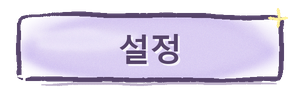
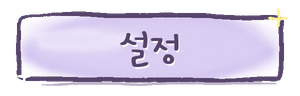
파스텔 타이틀 다듬기: 부제목 빼고 한 줄 감자꽃 손글씨 로고, 모래시계 윗칸은 검정 잉크, 버튼 글씨도 감자꽃체

Changed region(s): [[0.39, 0.3125, 0.6, 0.7188]]

diff --git a/tools/gen_title_pastel.py b/tools/gen_title_pastel.py
@@ -1,22 +1,24 @@
-"""'파스텔' 그림체(처음 만든 파스텔 수채화 타이틀)에 나중에 생긴 부품만 같은 그림체로 그린다.
+"""'파스텔' 그림체(처음 만든 파스텔 수채화 타이틀)의 부품을 같은 그림체로 그린다.
 
-배경·로고·부제목·잉크통·시작/끝내기 버튼은 처음 버전 이미지를 그대로 쓴다
-(git cd3721a 의 image/title/*.png → image/title_pastel/).
-처음 버전엔 없던 설정 버튼, 진주 비눗방울, 잉크통 아래 빛 웅덩이만 여기서 만든다.
+배경은 처음 버전 이미지를 그대로 쓴다 (git cd3721a 의 image/title/background.png).
+여기서는 한 줄 손글씨 로고, 위 칸이 검정 잉크인 모래시계, 감자꽃 손글씨 쪽지 버튼,
+진주 비눗방울, 잉크통 아래 빛 웅덩이, 같은 종이 쪽지 그림체의 설정 창을 그린다.
 
 실행:  python tools/gen_title_pastel.py
-결과:  image/title_pastel/button_settings*.png, bubble_pearl.png, light_pool.png
+결과:  image/title_pastel/*.png, image/settings_pastel/*.png
 """
 import math
 import os
 import sys
 
-from PIL import Image, ImageDraw
+import numpy as np
+from PIL import Image, ImageChops, ImageDraw, ImageFilter, ImageFont
 
 sys.path.insert(0, os.path.dirname(__file__))
-from sketch import Sheet, font, bezier, ellipse_points, PASTEL, PLUM  # noqa: E402
+from sketch import Sheet, font, bezier, ellipse_points, PASTEL, PLUM, INK, WATERCOLOR  # noqa: E402
 
 ROOT = os.path.dirname(os.path.dirname(os.path.abspath(__file__)))
+FONTS = os.path.join(ROOT, 'fonts')
 OUT = os.path.join(ROOT, 'image', 'title_pastel')
 WHITE = (255, 255, 255)
 SOFT_PLUM = (150, 128, 170)
@@ -39,9 +41,9 @@ def sparkle_stroke(sh, x, y, r, color, alpha=230, width=2.2):
     sh.stroke([(x - r, y), (x, y + r * 0.15), (x + r, y)], width, color, alpha, amp=0.2)
 
 
-def button(label, fill_color, seed, hover):
-    """처음 버전과 같은 종이 쪽지 버튼."""
-    bw, bh = 300, 96
+def button(label, fill_color, seed, hover, size=(300, 96)):
+    """처음 버전과 같은 종이 쪽지 버튼 (글씨만 감자꽃 손글씨)."""
+    bw, bh = size
     sh = Sheet(bw, bh, seed=seed)
     sh.line = PLUM
     x0, y0, x1, y1 = 18, 16, bw - 18, bh - 16
@@ -65,9 +67,10 @@ def button(label, fill_color, seed, hover):
     if hover:
         sparkle_stroke(sh, x1 - 4, y0 + 2, 9, (255, 236, 150), 255, 2.6)
         sparkle_stroke(sh, x0 + 6, y1 - 4, 6, WHITE, 255, 2.2)
-    f = font('malgunbd.ttf', 32)
-    sh.ink_text(label, f, bw / 2 + 2, bh / 2 + 2, WHITE, 200, anchor='mm')
-    sh.ink_text(label, f, bw / 2, bh / 2, PLUM, 255, anchor='mm')
+    f = hand_font(40)
+    sh.ink_text(label, f, bw / 2 + 2, bh / 2 + 4, WHITE, 220, anchor='mm')
+    sh.ink_text(label, f, bw / 2, bh / 2 + 2, PLUM, 255, anchor='mm')
+    sh.ink_text(label, f, bw / 2 + 0.8, bh / 2 + 2, PLUM, 255, anchor='mm')  # 살짝 두껍게
     return sh.result()
 
 
@@ -87,11 +90,318 @@ def light_pool():
     return sh.result()
 
 
+def ink_bottle():
+    """처음 버전 모래시계 잉크통과 같은 모양. 위 칸엔 빼앗긴 세상의 검정 잉크, 아래 칸엔 되찾은 색이 쌓인다."""
+    bw, bh = 220, 320
+    cx = bw / 2
+    sh = Sheet(bw, bh, seed=41)
+    sh.line = PLUM
+    top, bottom = 46, 274
+    neck = (top + bottom) / 2
+    left = bezier((cx - 78, top), (cx - 86, top + 80), (cx - 14, neck - 30), (cx - 9, neck), 40) +         bezier((cx - 9, neck), (cx - 14, neck + 30), (cx - 86, bottom - 80), (cx - 78, bottom), 40)[1:]
+    right = [(2 * cx - x, y) for x, y in left]
+    inner = poly_mask((bw, bh), left + right[::-1])
+
+    color = Sheet(bw, bh, seed=42)
+    color.wash(cx, neck, 80, 130, (236, 240, 255), alpha=150, layers=2)  # 유리 빛
+    # 위 칸: 검정 잉크 (먹 번짐을 겹쳐 진하게, 가장자리는 보랏빛이 살짝 돈다)
+    surf = top + 40  # 잉크 수면 (살짝 출렁)
+    pool = [(x, surf + 3 * math.sin(x / 9) + 2 * math.sin(x / 4 + 1)) for x in range(0, bw + 1, 4)]
+    pool_mask = ImageChops.multiply(poly_mask((bw, bh), pool + [(bw, neck + 6), (0, neck + 6)]), inner)
+    ink_fill = Sheet(bw, bh, seed=44)
+    ink_fill.fill_poly([(0, 0), (bw, 0), (bw, bh), (0, bh)], INK, 250)
+    ink_fill.wash(cx + 22, surf + 34, 30, 22, (78, 62, 102), alpha=150, layers=3, blur=4)  # 보랏빛 먹 번짐
+    ink_fill.wash(cx - 30, surf + 8, 24, 6, (120, 112, 138), alpha=170, layers=2, blur=2)  # 수면 윤기
+    color.masked(ink_fill, pool_mask)
+    color.wash(cx, top + 30, 60, 22, WHITE, alpha=130, layers=2, blur=4)
+    # 가운데로 떨어지는 줄기: 위는 검정, 아래로 가며 보랏빛 물감이 된다
+    color.stroke([(cx, neck - 20), (cx + 1, neck + 4)], 3, INK, 240, amp=0.5)
+    color.stroke([(cx + 1, neck + 4), (cx, bottom - 30)], 3, (180, 120, 200), 230, amp=0.5)
+    color.wash(cx - 22, bottom - 16, 34, 16, WATERCOLOR['red'], alpha=220, layers=3)
+    color.wash(cx + 20, bottom - 14, 32, 15, WATERCOLOR['blue'], alpha=220, layers=3)
+    color.wash(cx, bottom - 24, 22, 12, WATERCOLOR['green'], alpha=220, layers=3)
+    sh.masked(color, inner)
+
+    sh.stroke(left, 4.4)
+    sh.stroke(right, 4.4)
+    sh.stroke(bezier((cx - 58, top + 22), (cx - 66, top + 60), (cx - 40, top + 92), (cx - 26, top + 104), 20),
+              4, WHITE, 240, amp=0.6)
+    sh.stroke(bezier((cx - 58, bottom - 30), (cx - 64, bottom - 50), (cx - 52, bottom - 70), (cx - 44, bottom - 80), 14),
+              3, WHITE, 220, amp=0.6)
+    for y, d in ((top, -1), (bottom, 1)):
+        y0, y1 = (y - 26, y + 2) if d < 0 else (y - 2, y + 26)
+        sh.wash(cx, (y0 + y1) / 2, 94, 13, PASTEL['peach'], alpha=240, layers=2, blur=2)
+        sh.wash(cx - 40, (y0 + y1) / 2 - 3, 40, 5, WHITE, alpha=120, layers=1, blur=2)
+        sh.stroke([(cx - 96, y0), (cx + 96, y0 + 1), (cx + 98, y1), (cx - 95, y1 - 1), (cx - 96, y0 - 2)], 4.2)
+        for k in range(5):
+            xx = cx - 70 + k * 35
+            sh.stroke([(xx, y0 + 7), (xx + 10, y1 - 7)], 1.8, SOFT_PLUM, 160)
+    for x in (cx - 88, cx + 88):
+        sh.stroke([(x, top + 2), (x + 1, bottom - 2)], 4)
+    return sh.result(crop=True, margin=4)
+
+
+def ttf(name, size, variation=None):
+    f = ImageFont.truetype(os.path.join(FONTS, name), size)
+    if variation:
+        f.set_variation_by_name(variation)
+    return f
+
+
+def lay(sh, mask, color, alpha=255):
+    """mask(L, 시트 실제 크기)를 color 로 칠한다."""
+    if alpha < 255:
+        mask = mask.point(lambda v: v * alpha // 255)
+    layer = Image.new('RGBA', sh.img.size, tuple(color) + (0,))
+    layer.putalpha(mask)
+    sh.img.alpha_composite(layer)
+
+
+HAND = 'GamjaFlower-Regular.ttf'  # 파스텔 그림체 글씨: 배경 펜 선과 어울리는 둥근 손글씨
+INK_TINTS = ((240, 128, 166), (112, 200, 160), (104, 160, 232))  # I·n·k 물감 색 (분홍·민트·하늘)
+
+
+def hand_font(size):
+    return ImageFont.truetype(os.path.join(FONTS, HAND), size)
+
+
+def logo():
+    """한 줄 로고: 보랏빛 펜 손글씨 'what are you do' + 수채 물감으로 칠한 큰 'Ink'.
+    배경처럼 펜 선 테두리 + 물감 번짐, 흰 종이 테두리로 또렷하게."""
+    lw, lh = 1060, 300
+    sh = Sheet(lw, lh, seed=401)
+    ss = sh.ss
+    small = hand_font(int(88 * ss))
+    big = hand_font(int(172 * ss))
+    line = 'what are you do'
+    w_small = small.getlength(line) / ss
+    letters = ('I', 'n', 'k')
+    widths = [big.getlength(c) / ss for c in letters]
+    gap_word, gap_ch = 34, 8
+    total = w_small + gap_word + sum(widths) + gap_ch * 2
+    x0 = (lw - total) / 2
+    base = 196  # 글자 밑선 (PIL y)
+
+    # ---- 글자 마스크
+    m_small = Image.new('L', sh.img.size, 0)
+    ImageDraw.Draw(m_small).text((x0 * ss, base * ss), line, font=small, fill=255, anchor='ls')
+    m_small = m_small.filter(ImageFilter.MaxFilter(3))
+    masks = []
+    x = x0 + w_small + gap_word
+    for ch, wch, dy, ang in zip(letters, widths, (4, -6, 2), (-5, 4, -3)):
+        l_, t_, r_, b_ = big.getbbox(ch, anchor='ls')
+        cm = Image.new('L', (r_ - l_ + 80, b_ - t_ + 80), 0)
+        ImageDraw.Draw(cm).text((40 - l_, 40 - t_), ch, font=big, fill=255, anchor='ls')
+        cm = cm.rotate(ang, resample=Image.BICUBIC, expand=True)
+        m = Image.new('L', sh.img.size, 0)
+        m.paste(cm, (int((x + wch / 2) * ss - cm.width / 2), int((base + dy + (t_ + b_) / 2 / ss) * ss - cm.height / 2)))
+        masks.append((m.filter(ImageFilter.MaxFilter(17)), x, wch))
+        x += wch + gap_ch
+    m_ink = masks[0][0]
+    for m, *_ in masks[1:]:
+        m_ink = ImageChops.lighter(m_ink, m)
+
+    # ---- 흰 종이 테두리 + 보랏빛 그늘
+    halo = ImageChops.lighter(m_small.filter(ImageFilter.MaxFilter(15)), m_ink.filter(ImageFilter.MaxFilter(23)))
+    lay(sh, ImageChops.offset(halo, 3 * ss, 5 * ss).filter(ImageFilter.GaussianBlur(5 * ss)), PLUM, 90)
+    lay(sh, halo.filter(ImageFilter.GaussianBlur(1.2 * ss)), (255, 253, 250))
+
+    # ---- 'what are you do': 라벤더 그림자 위에 보랏빛 펜 글씨
+    lay(sh, ImageChops.offset(m_small, 3 * ss, 3 * ss), PASTEL['lavender'])
+    lay(sh, m_small, PLUM)
+
+    # ---- 'Ink': 글자마다 수채 물감, 살짝 밖으로 번진 물감 + 펜 테두리
+    for (m, lx, wch), tint in zip(masks, INK_TINTS):
+        small_m = m.resize((lw, lh), Image.BILINEAR)
+        spill = Sheet(lw, lh, seed=410 + int(lx))
+        spill.wash(lx + wch / 2 + 6, base - 62, wch * 0.62, 78, tint, alpha=110, layers=3, blur=6)
+        sh.masked(spill, ImageChops.offset(small_m, 6, 4).filter(ImageFilter.MaxFilter(9)))
+        fill = Sheet(lw, lh, seed=420 + int(lx))
+        fill.wash(lx + wch / 2, base - 60, wch * 0.7, 86, (255, 252, 248), alpha=255, layers=2, blur=3)
+        fill.wash(lx + wch / 2, base - 70, wch * 0.7, 90, tint, alpha=255, layers=4, edge=1.6, blur=4)
+        fill.wash(lx + wch / 2, base - 40, wch * 0.5, 50, tuple(int(v * 0.85) for v in tint), alpha=170, layers=3, blur=5)
+        fill.wash(lx + wch * 0.35, base - 110, wch * 0.18, 18, WHITE, alpha=150, layers=2, blur=3)
+        sh.masked(fill, small_m)
+    outline = ImageChops.subtract(m_ink.filter(ImageFilter.MaxFilter(7)), m_ink)
+    lay(sh, outline, PLUM)
+
+    # ---- 장식: 밑줄 물결, 물감 방울, 반짝이
+    ux0, ux1 = x0 + 8, x0 + w_small - 8
+    sh.stroke(bezier((ux0, base + 22), (ux0 + 160, base + 12), (ux1 - 160, base + 34), (ux1, base + 20), 40), 4, PLUM)
+    ink_x0 = x0 + w_small + gap_word
+    sh.splatter(ink_x0 - 6, base - 150, 22, INK_TINTS[0], count=4, size=(2, 5))
+    sh.splatter(ink_x0 + sum(widths) + 22, base - 120, 30, INK_TINTS[2], count=6, size=(2, 6))
+    sh.splatter(ink_x0 + sum(widths) * 0.55, base + 28, 34, INK_TINTS[1], count=5, size=(1.5, 4))
+    for (sx, sy, r, c) in ((ink_x0 + sum(widths) + 44, base - 168, 12, (255, 222, 120)),
+                           (x0 - 18, base - 86, 9, (255, 222, 120)), (ink_x0 - 30, base - 172, 7, WHITE)):
+        sparkle_stroke(sh, sx, sy, r, c, 255, 3)
+    return sh.result(crop=True, margin=14)
+
+
+def soft_glow(w, h, color, seed, alpha=170):
+    sh = Sheet(w, h, seed=seed)
+    sh.wash(w / 2, h / 2, w * 0.4, h * 0.38, color, alpha=alpha, layers=4, edge=0.2, blur=14)
+    sh.wash(w / 2, h / 2, w * 0.25, h * 0.22, WHITE, alpha=120, layers=3, edge=0.1, blur=12)
+    return sh.result()
+
+
+# ================================================================ 설정 창 (settings_mode 와 위치를 맞춘다)
+SETTINGS_OUT = os.path.join(ROOT, 'image', 'settings_pastel')
+PANEL_W, PANEL_H = 760, 560
+ROW0 = 180  # 첫 항목의 패널 y (캔버스 y 460 = 360 + 560/2 - 180)
+SETTING_ROWS = (('배경음', 'pink'), ('효과음', 'peach'), ('붓자국 효과', 'mint'), ('빛 입자 효과', 'sky'))
+
+
+def save_settings(img, name):
+    os.makedirs(SETTINGS_OUT, exist_ok=True)
+    img.save(os.path.join(SETTINGS_OUT, name))
+    print('saved settings_pastel/' + name, img.size)
+
+
+def wobbly_box(x0, y0, x1, y1, r, rng, amp=2.0):
+    """손으로 그린 둥근 네모 (윤곽 점 목록, 닫힘)."""
+    pts = []
+    for cx_, cy_, a0 in ((x1 - r, y0 + r, -math.pi / 2), (x1 - r, y1 - r, 0),
+                         (x0 + r, y1 - r, math.pi / 2), (x0 + r, y0 + r, math.pi)):
+        for i in range(9):
+            a = a0 + math.pi / 2 * i / 8
+            pts.append((cx_ + math.cos(a) * r + rng.uniform(-amp, amp) * 0.3,
+                        cy_ + math.sin(a) * r + rng.uniform(-amp, amp) * 0.3))
+    return pts + [pts[0]]
+
+
+def thick_text(sh, text, f, x, y, color, anchor='mm'):
+    """손글씨를 살짝 두껍게 (두 번 겹쳐 찍기)."""
+    sh.ink_text(text, f, x, y, color, 255, anchor=anchor)
+    sh.ink_text(text, f, x + 0.7, y, color, 255, anchor=anchor)
+
+
+def settings_panel():
+    """수채화 종이 쪽지 창: 크림색 종이에 파스텔 번짐, 보랏빛 펜 테두리 두 줄, 손글씨 항목 이름.
+    행 높이는 settings_mode.ROW_Y (패널 y = ROW0 + i*70) 와 같다."""
+    sh = Sheet(PANEL_W, PANEL_H, seed=501)
+    sh.line = PLUM
+    box = (26, 26, PANEL_W - 26, PANEL_H - 26)
+    outline = wobbly_box(*box, 26, sh.rng)
+    shadow = Sheet(PANEL_W, PANEL_H, seed=502)
+    shadow.fill_poly([(x + 6, y + 8) for x, y in outline], (120, 96, 150), 90)
+    sh.img.alpha_composite(shadow.img.filter(ImageFilter.GaussianBlur(8 * sh.ss)))
+    paper_ = Sheet(PANEL_W, PANEL_H, seed=503)
+    paper_.fill_poly([(0, 0), (PANEL_W, 0), (PANEL_W, PANEL_H), (0, PANEL_H)], (255, 251, 246), 250)
+    paper_.wash(150, 110, 200, 120, PASTEL['pink'], alpha=110, layers=3, blur=10)
+    paper_.wash(620, 440, 240, 140, PASTEL['sky'], alpha=110, layers=3, blur=10)
+    paper_.wash(660, 130, 130, 90, PASTEL['lemon'], alpha=90, layers=3, blur=10)
+    paper_.wash(120, 470, 140, 90, PASTEL['mint'], alpha=90, layers=3, blur=10)
+    sh.masked(paper_, poly_mask((PANEL_W, PANEL_H), outline))
+    sh.stroke(outline, 4.4)
+    sh.stroke(wobbly_box(box[0] + 12, box[1] + 12, box[2] - 12, box[3] - 12, 18, sh.rng), 1.8, SOFT_PLUM, 170,
+              amp=0.8)
+    # 제목
+    title_f = hand_font(52)
+    sh.ink_text('설정', title_f, PANEL_W / 2 + 2, 92, WHITE, 230, anchor='mm')
+    thick_text(sh, '설정', title_f, PANEL_W / 2, 90, PLUM)
+    sh.stroke(bezier((PANEL_W / 2 - 60, 122), (PANEL_W / 2 - 20, 116), (PANEL_W / 2 + 20, 126), (PANEL_W / 2 + 60, 119)),
+              3, PLUM)
+    sparkle_stroke(sh, PANEL_W / 2 + 78, 74, 10, (255, 222, 120), 255, 2.8)
+    sparkle_stroke(sh, PANEL_W / 2 - 80, 102, 6, (255, 222, 120), 255, 2.2)
+    # 항목: 물감 점 + 손글씨, 사이사이 연한 연필 줄
+    row_f = hand_font(36)
+    for i, (label, tint) in enumerate(SETTING_ROWS):
+        y = ROW0 + i * 70
+        sh.wash(72, y, 10, 9, PASTEL[tint], alpha=255, layers=3, edge=1.2, blur=1)
+        sh.ellipse(72, y, 9, 8, 2, PLUM, 230, amp=0.4)
+        thick_text(sh, label, row_f, 96, y + 2, PLUM, anchor='lm')
+        if i < len(SETTING_ROWS) - 1:
+            sh.stroke([(70, y + 35), (PANEL_W - 70, y + 35)], 1.4, SOFT_PLUM, 90, amp=1.0)
+    return sh.result()
+
+
+def rounded_bar(tw, th):
+    bar = Image.new('L', (tw, th), 0)
+    ImageDraw.Draw(bar).rounded_rectangle((8, 11, tw - 8, th - 11), radius=7, fill=255)
+    return bar
+
+
+def slider_track(filled=False):
+    """펜으로 그린 홈 + 채운 쪽은 분홍→라벤더 수채 물감 띠."""
+    tw, th = 300, 36
+    sh = Sheet(tw, th, seed=511 if filled else 512)
+    sh.line = PLUM
+    tmp = Sheet(tw, th, seed=513)
+    if filled:
+        stops = [PASTEL[k] for k in ('pink', 'peach', 'lemon', 'mint', 'sky', 'lavender')]
+        for k in range(14):
+            c = stops[int(k / 13 * (len(stops) - 1) + 0.5)]
+            tmp.wash(14 + k * (tw - 28) / 13, th / 2, 16, 8, tuple(int(v * 0.9) for v in c), alpha=240,
+                     layers=2, edge=1.0, blur=1.5, wobble=0.1)
+        sh.masked(tmp, rounded_bar(tw, th))
+        sh.stroke([(14, th / 2 - 3), (tw - 14, th / 2 - 3)], 1.6, WHITE, 160, amp=0.4)
+    else:
+        tmp.fill_poly([(0, 0), (tw, 0), (tw, th), (0, th)], (255, 252, 248), 255)
+        sh.masked(tmp, rounded_bar(tw, th))
+        sh.stroke([(14, 11), (tw - 14, 11.5)], 2.4, PLUM, 230, amp=0.6)
+        sh.stroke([(14, th - 11), (tw - 14, th - 11.5)], 2.4, PLUM, 230, amp=0.6)
+        sh.stroke(ellipse_points(14, th / 2, 6, 7, 10, math.pi / 2, math.pi), 2.4, PLUM, 230, amp=0.3)
+        sh.stroke(ellipse_points(tw - 14, th / 2, 6, 7, 10, -math.pi / 2, math.pi), 2.4, PLUM, 230, amp=0.3)
+    return sh.result()
+
+
+def slider_knob():
+    """손잡이: 크림색 동그라미 + 펜 테두리 + 반짝."""
+    s_ = 44
+    sh = Sheet(s_, s_, seed=521)
+    sh.wash(s_ / 2 + 1, s_ / 2 + 2, 13, 13, (120, 96, 150), alpha=90, layers=2, blur=2)
+    sh.wash(s_ / 2, s_ / 2, 13, 13, (255, 252, 246), alpha=255, layers=2, edge=0.2, blur=0.6, wobble=0.04)
+    sh.wash(s_ / 2, s_ / 2, 12, 12, PASTEL['lavender'], alpha=120, layers=2, blur=1)
+    sh.ellipse(s_ / 2, s_ / 2, 13, 13, 2.6, PLUM, 255, amp=0.3)
+    sh.wash(s_ / 2 - 4, s_ / 2 - 4, 3, 3, WHITE, alpha=255, layers=1, blur=0.4)
+    return sh.result()
+
+
+def toggle(on):
+    """종이 알약 토글: 켜지면 분홍 물감이 번지고 동그라미가 오른쪽, 꺼지면 크림색에 왼쪽."""
+    tw, th = 130, 52
+    sh = Sheet(tw, th, seed=531 if on else 532)
+    sh.line = PLUM
+    outline = wobbly_box(12, 10, tw - 12, th - 10, 16, sh.rng, 1.2)
+    fill = Sheet(tw, th, seed=533)
+    fill.fill_poly([(0, 0), (tw, 0), (tw, th), (0, th)], (255, 252, 248), 255)
+    if on:
+        fill.wash(tw / 2, th / 2, 52, 18, (240, 150, 184), alpha=230, layers=3, edge=1.2, blur=2)
+        fill.wash(tw / 2 - 20, th / 2 - 6, 18, 4, WHITE, alpha=140, layers=1, blur=1.5)
+    sh.masked(fill, poly_mask((tw, th), outline))
+    sh.stroke(outline, 3)
+    kx = tw - 32 if on else 32
+    sh.wash(kx, th / 2, 11, 11, WHITE, alpha=255, layers=2, edge=0.2, blur=0.6, wobble=0.04)
+    sh.ellipse(kx, th / 2, 11, 11, 2.4, PLUM, 255, amp=0.3)
+    sh.ink_text('켜짐' if on else '꺼짐', hand_font(24), 50 if on else tw - 48, th / 2 + 1,
+                PLUM if on else SOFT_PLUM, 255, anchor='mm')
+    if on:
+        sparkle_stroke(sh, tw - 10, 9, 6, (255, 222, 120), 255, 2)
+    return sh.result()
+
+
 def main():
+    save(logo(), 'logo.png')
+    save(soft_glow(1060, 300, (255, 250, 240), 302, alpha=190), 'logo_glow.png')
+    save(ink_bottle(), 'ink_bottle.png')
+    save(button('시작하기', PASTEL['pink'], 81, False), 'button_start.png')
+    save(button('시작하기', PASTEL['pink'], 81, True), 'button_start_hover.png')
+    save(button('끝내기', PASTEL['sky'], 82, False), 'button_quit.png')
+    save(button('끝내기', PASTEL['sky'], 82, True), 'button_quit_hover.png')
     save(button('설정', PASTEL['lavender'], 83, False), 'button_settings.png')
     save(button('설정', PASTEL['lavender'], 83, True), 'button_settings_hover.png')
     save(bubble((236, 232, 246), 136), 'bubble_pearl.png')
     save(light_pool(), 'light_pool.png')
+    save_settings(Image.new('RGBA', (16, 16), (120, 96, 150, 255)), 'dim.png')  # 알파 채널이 있어야 opacify가 먹는다
+    save_settings(settings_panel(), 'panel.png')
+    save_settings(slider_track(), 'slider_track.png')
+    save_settings(slider_track(filled=True), 'slider_fill.png')
+    save_settings(slider_knob(), 'slider_knob.png')
+    save_settings(toggle(True), 'toggle_on.png')
+    save_settings(toggle(False), 'toggle_off.png')
+    save_settings(button('닫기', PASTEL['peach'], 541, False, (220, 84)), 'button_close.png')
+    save_settings(button('닫기', PASTEL['peach'], 541, True, (220, 84)), 'button_close_hover.png')
 
 
 if __name__ == '__main__':

diff --git a/title_mode.py b/title_mode.py
@@ -28,8 +28,8 @@ LAYOUTS = {
     'default': {'logo': (330, 562), 'bottle_y': 320, 'bottle_scale': 1.0},
     'sketchbook': {'logo': (640, 584), 'bottle_y': 284, 'bottle_scale': 0.84},  # 로고가 가운데 위
     'ink': {'logo': (640, 572), 'bottle_y': 264, 'bottle_scale': 0.84},
-    # 처음 만든 파스텔 수채화: 로고 가운데 위, 그 아래 부제목, 쪽지 버튼이 커서 간격을 넓힌다
-    'pastel': {'logo': (640, 585), 'subtitle_y': 472, 'bottle_y': 292, 'bottle_scale': 1.0,
+    # 처음 만든 파스텔 수채화: 검정 잉크 로고가 모래시계 위에, 쪽지 버튼이 커서 간격을 넓힌다
+    'pastel': {'logo': (640, 548), 'bottle_y': 256, 'bottle_scale': 0.85,
                'button_gap': 300, 'button_y': 78},
 }
 DYE_START, DYE_TIME = 0.5, 6.0  # 물들이기: 시작 시각과 다 번지는 데 걸리는 시간(초)
